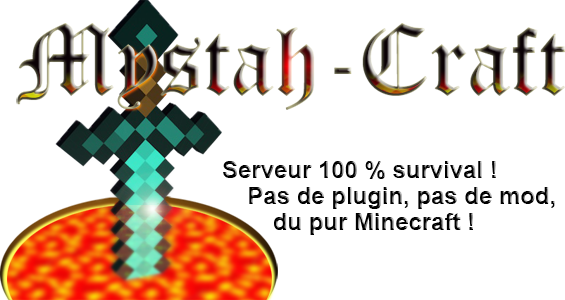
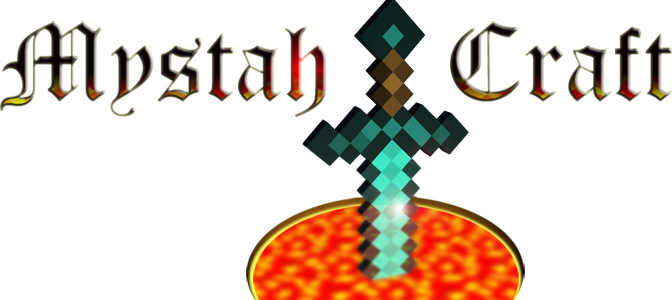
Header épée centrale + Loader User KenshiWado

diff --git a/web/css/style.css b/web/css/style.css
@@ -102,7 +102,7 @@ header #header-logo #img-logo
 {
 	position: absolute;
 	left: 50%;
-	margin-left: -188px;
+	margin-left: -430px;
 	top: 0;
 	background: url("../images/DiamSword.png") no-repeat;
 }
@@ -111,7 +111,7 @@ header #header-logo #img-logo
 {
 	position: relative;
 	height: 300px;
-	width: 730px;
+	width: 930px;
 }
 
 header #header #auth

diff --git a/src/MystahCraft/SiteBundle/DataFixtures/ORM/LoadContenusData.php b/src/MystahCraft/SiteBundle/DataFixtures/ORM/LoadContenusData.php
@@ -1,15 +1,18 @@
 <?php
 namespace MystahCraft\SiteBundle\DataFixtures\ORM;
 
-
 use Doctrine\Common\DataFixtures\FixtureInterface;
 use Doctrine\Common\Persistence\ObjectManager;
 use MystahCraft\SiteBundle\Entity\TypesContenus;
 use MystahCraft\SiteBundle\Entity\Contenus;
+use Symfony\Component\DependencyInjection\ContainerAwareInterface;
+use Symfony\Component\DependencyInjection\ContainerInterface;
+use FOS\UserBundle\Propel\UserManager;
 
-class LoadContenusData implements FixtureInterface
-{
+class LoadContenusData implements FixtureInterface, ContainerAwareInterface {
 
+	private $container;
+	
 	/**
 	 * {@inheritDoc}
 	 */
@@ -17,12 +20,12 @@ class LoadContenusData implements FixtureInterface
 		/*
 		 * Déclaration des types
 		 */
-		
+
 		$types = array();
 
 		$types['ip-serveur'] = new TypesContenus();
 		$types['ip-serveur']->setType('ip-serveur');
-		
+
 		$types['regle'] = new TypesContenus();
 		$types['regle']->setType('regle');
 
@@ -31,29 +34,28 @@ class LoadContenusData implements FixtureInterface
 
 		$types['pied-regle'] = new TypesContenus();
 		$types['pied-regle']->setType('pied-regle');
-		
+
 		$types['signature-regle'] = new TypesContenus();
 		$types['signature-regle']->setType('signature-regle');
-		
-		
+
 		/*
 		 * Déclaration des contenus
 		 */
-		
+
 		// Ip du serveur
-		
+
 		$ipServeur = new Contenus();
 		$ipServeur->setValeur("77.111.208.238:25565");
 		$types['ip-serveur']->addContenu($ipServeur);
-		
+
 		// Entête des règles
-		
+
 		$regleEntete = new Contenus();
 		$regleEntete->setValeur("Règles du serveur");
 		$types['entete-regle']->addContenu($regleEntete);
-		
+
 		// Règles
-		
+
 		$reglesText = array();
 		$reglesText[] = "Il est interdit de rentrer chez les gens sans autorisation, de voler, de détruire.";
 		$reglesText[] = "Il est interdit de miner sauvagement; des mines communes sont là pour ça. Dans ces mines il faut respecter l'agencement des galleries.";
@@ -66,32 +68,36 @@ class LoadContenusData implements FixtureInterface
 		$reglesText[] = "L'utilisation de mods de triche sera facilement et rapidement détéctée et entrainera le banissement immédiat.";
 		$reglesText[] = "Il est interdit d'explorer le monde en allant en ligne droite. Il faut explorer biome par biome.
 						Le fait de faire des lignes droites de terrain exploré ne sert a rien et fait buggé le monde en créant des terrains corrompus (falaises abruptes).";
-		
-		foreach ($reglesText as $regleText)
-		{
+
+		foreach ($reglesText as $regleText) {
 			$regle = new Contenus();
 			$regle->setValeur($regleText);
 			$types['regle']->addContenu($regle);
 		}
-		
+
 		// Pied des règles
-		
-		$reglePied= new Contenus();
+
+		$reglePied = new Contenus();
 		$reglePied->setValeur("Mis a part ça, éclatez vous bien !");
 		$types['pied-regle']->addContenu($reglePied);
-		
+
 		$regleSignature = new Contenus();
 		$regleSignature->setValeur("Le roi et la reine");
 		$types['signature-regle']->addContenu($regleSignature);
-		
-		foreach ($types as $type)
-		{
+
+		foreach ($types as $type) {
 			$manager->persist($type);
 		}
+
+		
 		/*
 		 * Flush de tous les contenus
 		 */
 		$manager->flush();
+	}
+
+	public function setContainer(ContainerInterface $container = null) {
+		$this->container = $container;
 	}
 
 }

diff --git a/src/MystahCraft/SiteBundle/DataFixtures/ORM/LoadUsersData.php b/src/MystahCraft/SiteBundle/DataFixtures/ORM/LoadUsersData.php
@@ -1,0 +1,47 @@
+<?php
+namespace MystahCraft\SiteBundle\DataFixtures\ORM;
+
+use Doctrine\Common\DataFixtures\FixtureInterface;
+use Symfony\Component\DependencyInjection\ContainerAwareInterface;
+use Doctrine\Common\Persistence\ObjectManager;
+use Symfony\Component\DependencyInjection\ContainerInterface;
+use MystahCraft\UserBundle\Entity\Group;
+
+class LoadUsersData implements FixtureInterface, ContainerAwareInterface {
+	
+	private $container;
+	
+	public function load(ObjectManager $manager) 
+	{
+		/*
+		 * Groups
+		 */
+		
+		$groupAdmin = new Group('admins');
+		$groupAdmin->addRole('ROLE_SUPER_ADMIN');
+		$manager->persist($groupAdmin);
+		
+		
+		/*
+		 * Users
+		 */
+		
+		$userManager = $this->container->get('fos_user.user_manager');
+		
+		
+		//KenshiWado
+		$kenshiWado = $userManager->createUser();
+		$kenshiWado->setUsername('KenshiWado');
+		$kenshiWado->setEmail('jrm.safont@gmail.com');
+		$kenshiWado->setPlainPassword('kenshi1337');
+		$kenshiWado->addGroup($groupAdmin);
+		$kenshiWado->setEnabled(1);
+		
+		$userManager->updateUser($kenshiWado);
+	}
+	public function setContainer(ContainerInterface $container = null) 
+	{
+		$this->container = $container;
+	}
+
+}

diff --git a/src/MystahCraft/UserBundle/Entity/User.php b/src/MystahCraft/UserBundle/Entity/User.php
@@ -20,18 +20,19 @@ class User extends BaseUser {
 	 */
 	protected $id;
 	
+	/**
+	 * @var \ArrayCollection
+	 * 
+	 * @ORM\ManyToMany(targetEntity="MystahCraft\UserBundle\Entity\Group")
+	 * @ORM\JoinTable(name="fos_user_user_group",
+     *      joinColumns={@ORM\JoinColumn(name="user_id", referencedColumnName="id")},
+     *      inverseJoinColumns={@ORM\JoinColumn(name="group_id", referencedColumnName="id")}
+     * )
+	 */
+	protected $groups;
+	
 	public function __construct()
 	{
 		parent::__construct();
 	}
-
-    /**
-     * Get id
-     *
-     * @return integer 
-     */
-    public function getId()
-    {
-        return $this->id;
-    }
 }

diff --git a/src/MystahCraft/UserBundle/Entity/Group.php b/src/MystahCraft/UserBundle/Entity/Group.php
@@ -1,0 +1,24 @@
+<?php
+
+namespace MystahCraft\UserBundle\Entity;
+
+use Doctrine\ORM\Mapping as ORM;
+use FOS\UserBundle\Model\Group as BaseGroup;
+
+/**
+ * Group
+ *
+ * @ORM\Table(name="fos_user")
+ * @ORM\Entity
+ */
+class Group extends BaseGroup
+{
+    /**
+     * @var integer
+     *
+     * @ORM\Column(name="id", type="integer")
+     * @ORM\Id
+     * @ORM\GeneratedValue(strategy="AUTO")
+     */
+    protected $id;
+}
